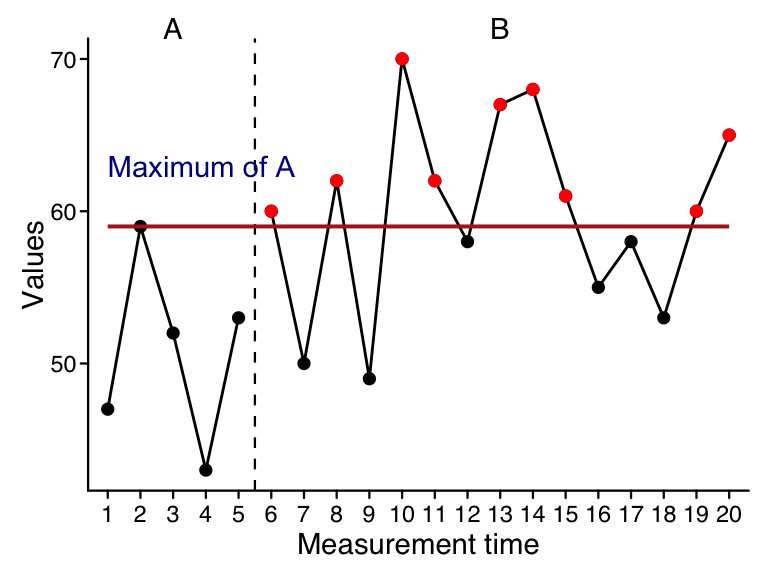
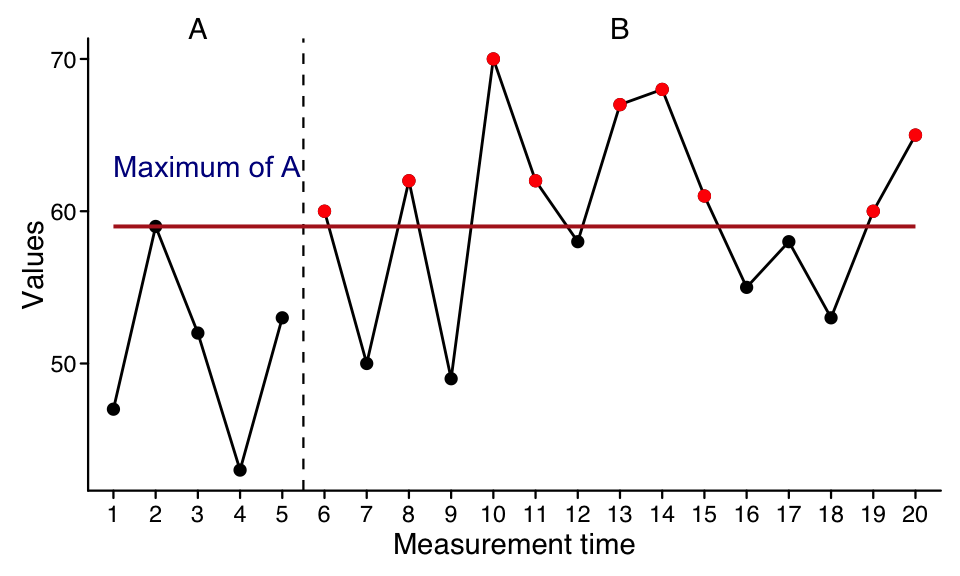
upd

diff --git a/docs/ch_overlapping_indices.html b/docs/ch_overlapping_indices.html
@@ -569,18 +569,18 @@ Hedges_g          2.07      2.72      2.98</code></pre>
 <p><strong>pnd</strong>(<em>data</em>, <em>dvar</em>, <em>pvar</em>, <em>decreasing</em> = FALSE, <em>phases</em> = c(1, 2))</p>
 </div>
 </div>
-<p>The percentage of non-overlapping data (PND) effect size measure was described by <span class="citation" data-cites="scruggs_quantitative_1987">Scruggs, Mastropieri, &amp; Casto (<a href="references.html#ref-scruggs_quantitative_1987" role="doc-biblioref">1987</a>)</span> . It is the percentage of all data-points of the second phase of a single-case study exceeding the maximum value of the first phase. In case you have a study where you expect a decrease of values in the second phase, PND is calculated as the percentage of data-point of the second phase below the minimum of the first phase.</p>
+<p>The percentage of non-overlapping data (PND) effect size measure was described by <span class="citation" data-cites="scruggs_quantitative_1987">Scruggs, Mastropieri, &amp; Casto (<a href="references.html#ref-scruggs_quantitative_1987" role="doc-biblioref">1987</a>)</span> . It is the percentage of all data-points of the second phase of a single-case study exceeding the maximum value of the first phase.</p>
 <div class="cell">
 <div class="cell-output-display">
 <div class="quarto-figure quarto-figure-center">
 <figure class="figure">
-<p><img src="ch_overlapping_indices_files/figure-html/unnamed-chunk-7-1.png" class="img-fluid figure-img" width="384"></p>
+<p><img src="ch_overlapping_indices_files/figure-html/unnamed-chunk-7-1.png" class="img-fluid figure-img" width="480"></p>
 <figcaption>Illustration of PND. PND is 60% as 9 out of 15 datapoints of phase B are higher than the maximum of phase A</figcaption>
 </figure>
 </div>
 </div>
 </div>
-<p>The function <code>pnd</code> provides the PND for each case as well as the mean of all PNDs of that <em>scdf</em>. When you expect decreasing values set <code>decreasing = TRUE</code>. When there are more than two phases or phases are not named A and B, use the <code>phases</code> argument as described at the beginning of this chapter.</p>
+<p>The function <code>pnd</code> provides the PND for each case as well as the mean PND of all cases.</p>
 <div class="cell">
 <div class="code-copy-outer-scaffold"><div class="sourceCode cell-code" id="cb7"><pre class="sourceCode r code-with-copy"><code class="sourceCode r"><span id="cb7-1"><a href="#cb7-1" aria-hidden="true" tabindex="-1"></a><span class="fu">pnd</span>(exampleAB)</span></code></pre></div><button title="Copy to Clipboard" class="code-copy-button"><i class="bi"></i></button></div>
 <div class="cell-output cell-output-stdout">
@@ -594,6 +594,18 @@ Hedges_g          2.07      2.72      2.98</code></pre>
 Mean  : 93.33 %</code></pre>
 </div>
 </div>
+<p>When you expect decreasing values set <code>decreasing = TRUE</code>. In that case, PND will be the percentage of values below the minimum of the first phase.</p>
+<div class="cell">
+<div class="cell-output-display">
+<div class="quarto-figure quarto-figure-center">
+<figure class="figure">
+<p><img src="ch_overlapping_indices_files/figure-html/unnamed-chunk-9-1.png" class="img-fluid figure-img" width="480"></p>
+<figcaption>Illustration of PND for expected decreasing values. PND is 73% as 11 out of 15 datapoints of phase B are lower than the minimum of phase A</figcaption>
+</figure>
+</div>
+</div>
+</div>
+<p>When there are more than two phases, use the <code>phases</code> argument as described in <a href="#sec-select-phases" class="quarto-xref"><span>Section 9.1.1</span></a>.</p>
 </section>
 <section id="sec-pem" class="level2" data-number="9.3">
 <h2 data-number="9.3" class="anchored" data-anchor-id="sec-pem"><span class="header-section-number">9.3</span> Percentage exceeding the median (PEM)</h2>
@@ -625,7 +637,7 @@ Mean  : 93.33 %</code></pre>
 <div class="cell-output-display">
 <div class="quarto-figure quarto-figure-center">
 <figure class="figure">
-<p><img src="ch_overlapping_indices_files/figure-html/unnamed-chunk-10-1.png" class="img-fluid figure-img" width="384"></p>
+<p><img src="ch_overlapping_indices_files/figure-html/unnamed-chunk-11-1.png" class="img-fluid figure-img" width="480"></p>
 <figcaption>Illustration of PEM. PEM is 75% as 13 out of 15 datapoints of phase B are higher than the median of phase A</figcaption>
 </figure>
 </div>
@@ -644,6 +656,7 @@ Mean  : 93.33 %</code></pre>
 Alternative hypothesis: true probability &gt; 50%</code></pre>
 </div>
 </div>
+<p>When you expect decreasing values set <code>decreasing = TRUE</code>. In that case, the percentage of values below the median of the first phase is reported.</p>
 </section>
 <section id="sec-pet" class="level2" data-number="9.4">
 <h2 data-number="9.4" class="anchored" data-anchor-id="sec-pet"><span class="header-section-number">9.4</span> Percentage exceeding the regression trend (PET)</h2>
@@ -660,7 +673,7 @@ Alternative hypothesis: true probability &gt; 50%</code></pre>
 <p><strong>pet</strong>(<em>data</em>, <em>dvar</em>, <em>pvar</em>, <em>mvar</em>, <em>ci</em> = 0.95, <em>decreasing</em> = FALSE, <em>phases</em> = c(1, 2))</p>
 </div>
 </div>
-<p>The pet function provides the percentage of phase B data points exceeding the prediction based on the phase A trend. A binomial test against a 50/50 distribution is computed. Furthermore, the percentage of phase B data points exceeding the upper (or lower) 95 percent (default) confidence interval of the predicted progress is computed.</p>
+<p>The pet function provides the percentage of phase B data points that are larger than the prediction based on the phase A trend. A binomial test against a 50/50 distribution is computed. Furthermore, the percentage of phase B data points exceeding the upper 95 percent (default) confidence interval of the predicted progress is computed.</p>
 <div class="cell">
 <div class="code-copy-outer-scaffold"><div class="sourceCode cell-code" id="cb11"><pre class="sourceCode r code-with-copy"><code class="sourceCode r"><span id="cb11-1"><a href="#cb11-1" aria-hidden="true" tabindex="-1"></a><span class="fu">pet</span>(exampleAB)</span></code></pre></div><button title="Copy to Clipboard" class="code-copy-button"><i class="bi"></i></button></div>
 <div class="cell-output cell-output-stdout">
@@ -679,12 +692,13 @@ PET CI: Percent of values greater than upper 95% confidence threshold (single si
 <div class="cell-output-display">
 <div class="quarto-figure quarto-figure-center">
 <figure class="figure">
-<p><img src="ch_overlapping_indices_files/figure-html/unnamed-chunk-14-1.png" class="img-fluid figure-img" width="384"></p>
+<p><img src="ch_overlapping_indices_files/figure-html/unnamed-chunk-15-1.png" class="img-fluid figure-img" width="480"></p>
 <figcaption>Illustration of PET. PET is 66.7% as 10 out of 15 datapoints of phase B are higher than the projected trend-line of phase A</figcaption>
 </figure>
 </div>
 </div>
 </div>
+<p>When you expect decreasing values set <code>decreasing = TRUE</code>. In that case, the percentage of data points below the predicted values and below the lower 95% confidence intervall of the predicted values are reported.</p>
 </section>
 <section id="sec-pand" class="level2" data-number="9.5">
 <h2 data-number="9.5" class="anchored" data-anchor-id="sec-pand"><span class="header-section-number">9.5</span> Percentage of all non-overlapping data (PAND)</h2>
@@ -752,7 +766,9 @@ PAND = 85.7%
 Overlapping data: n = 4 ; percentage = 14.3 </code></pre>
 </div>
 </div>
-<p>The original procedure for computing PAND does not account for ambivalent datapoints (ties). The newer NAP overcomes this problem and has better precision-power <span class="citation" data-cites="parker_effect_2011">(<a href="references.html#ref-parker_effect_2011" role="doc-biblioref">Richard I. Parker, Vannest, &amp; Davis, 2011a</a>)</span>.</p>
+<p>If values are expected to decrease in the second phase, set <code>decreasing = TRUE</code>. For the <em>sort</em> method, PAND is then based on increasingly sorted values. For the <em>minimum</em> method, all values of the dependent variable are multiplied by -1.</p>
+<p><br>
+The original procedure for computing PAND does not account for ambivalent datapoints (ties). The newer NAP overcomes this problem and has better precision-power <span class="citation" data-cites="parker_effect_2011">(<a href="references.html#ref-parker_effect_2011" role="doc-biblioref">Richard I. Parker, Vannest, &amp; Davis, 2011a</a>)</span>.</p>
 </section>
 <section id="sec-nap" class="level2" data-number="9.6">
 <h2 data-number="9.6" class="anchored" data-anchor-id="sec-nap"><span class="header-section-number">9.6</span> Nonoverlap of all pairs (NAP)</h2>
@@ -781,6 +797,7 @@ Overlapping data: n = 4 ; percentage = 14.3 </code></pre>
      Anja  98           96 1.5 &lt;.001 2.8 0.66</code></pre>
 </div>
 </div>
+<p>If values are expected to decrease in the second phase, set <code>decreasing = TRUE</code>. A non-overlapping pair is then defined by a lower phase B data point.</p>
 </section>
 <section id="sec-ird" class="level2" data-number="9.7">
 <h2 data-number="9.7" class="anchored" data-anchor-id="sec-ird"><span class="header-section-number">9.7</span> Improvement rate difference (IRD)</h2>
@@ -804,6 +821,7 @@ Overlapping data: n = 4 ; percentage = 14.3 </code></pre>
 <pre><code>Improvement rate difference = 0.867</code></pre>
 </div>
 </div>
+<p>If values are expected to decrease in the second phase, set <code>decreasing = TRUE</code>. Improvement will then reference lower values in phase B.</p>
 </section>
 <section id="sec-tauu" class="level2" data-number="9.8">
 <h2 data-number="9.8" class="anchored" data-anchor-id="sec-tauu"><span class="header-section-number">9.8</span> Tau-U</h2>
@@ -1135,9 +1153,7 @@ Cohen's d                         6.98   7.67   7.10</code></pre>
 <p>The previous section described the calculation of standardized mean differences <em>within</em> a subject (here: between two phases of one single case). An inherent problem with this calculations is, that the idea and measures of standardized mean differences (e.g.&nbsp;Cohen’s <em>d</em>) have been developed to characterize the differences between groups. That is, a difference is standardized by the variation <em>between</em> subjects in a group. These are two fundamentally different things. Variations <em>within</em> a subject might be due to measurement errors or individual fluctuations in the strength of an attribute across time. Whereas the variations <em>between</em> subjects indicate a social frame of reference for what is large or small. Accordingly, it is not sensible to apply the well known standards to classify standardizes mean differences (e.g., Cohen’s cut-off values for the interpretation of <em>d</em>) to within case standardized mean differences. Within case standardized mean differences are usually much larger compared to these cut-offs as variations within a subject across time are (mostly) much smaller that differences between subjects.</p>
 <p><span class="citation" data-cites="hedges2012">Hedges, Pustejovsky, &amp; Shadish (<a href="references.html#ref-hedges2012" role="doc-biblioref">2012</a>)</span> proposed an approach to calculate the between case standardized mean difference, that is conceptually equivalent to Cohen’s <em>d.</em> This approach is applicable when we have a study with multiple single-cases (here: not just two or three but, depending on the actual data structure, maybe fifteen, or more). The basic idea is, to calculate a multi-level regression model (measurements nested in subjects) with a random intercept (here: between case standard deviation of the intercept) and the <em>phase</em> variable as a dummy coded fixed predictor (see <a href="ch_multilevel_plm.html" class="quarto-xref"><span>Chapter 11</span></a> for details on the calculation of multilevel single case regression models).</p>
 <p>The estimated regression weight of the phase predictor (here: the mean differences between the phases) is divided by the variance the random intercept and the residuals to give the <em>BC-SMD</em> (between case standardised mean difference):</p>
-<p><span class="math display">\[
-\text{BC-SMD} = \frac{\hat{\beta}_1}{\sqrt{\hat{\sigma}^2_\varepsilon + \hat{\sigma}^2_u}}
-\]</span> where:</p>
+<p><span class="math display">\[\text{BC-SMD} = \frac{\hat{\beta}_1}{\sqrt{\hat{\sigma}^2_\varepsilon + \hat{\sigma}^2_u}}\]</span> where:</p>
 <ul>
 <li><span class="math inline">\(\hat{\beta}_1\)</span> is the estimated fixed effect of the phase (i.e., mean difference between phase A and B),</li>
 <li><span class="math inline">\(\hat{\sigma}^2_\epsilon\)</span> is the within-case residual variance (level-1),</li>
